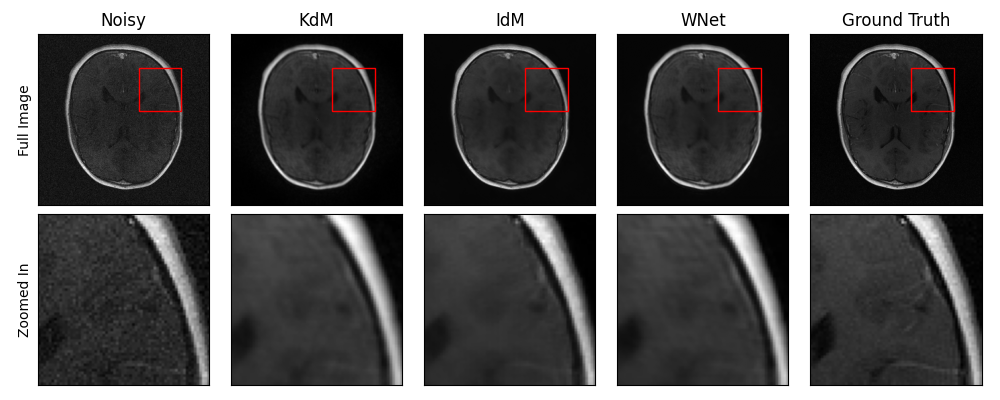
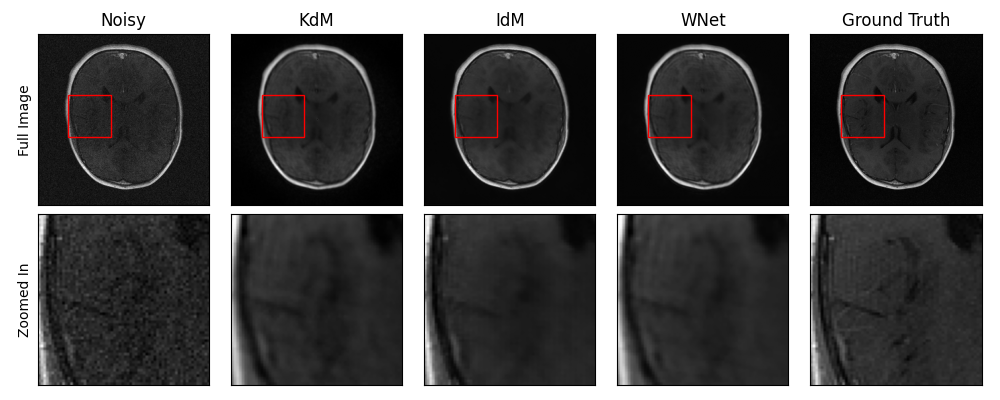
adjust box coordinates for zoomed image

diff --git a/dual-domain-denoising/plot_images.py b/dual-domain-denoising/plot_images.py
@@ -96,7 +96,7 @@ def main():
     noisy_image_rss = fastmri.rss(noisy_image_abs, dim=0)
 
     fig, axs = plt.subplots(2, 5, figsize=(10, 4))
-    box_x, box_y = BOX_X, BOX_Y
+    box_x, box_y = 45, 90
     axs[0, 0].imshow(np.abs(noisy_image_rss.numpy()), cmap='gray')
     axs[0, 0].add_patch(patches.Rectangle(
         (box_x, box_y), BOX_SIZE, BOX_SIZE, linewidth=1, edgecolor='r', facecolor='none'
